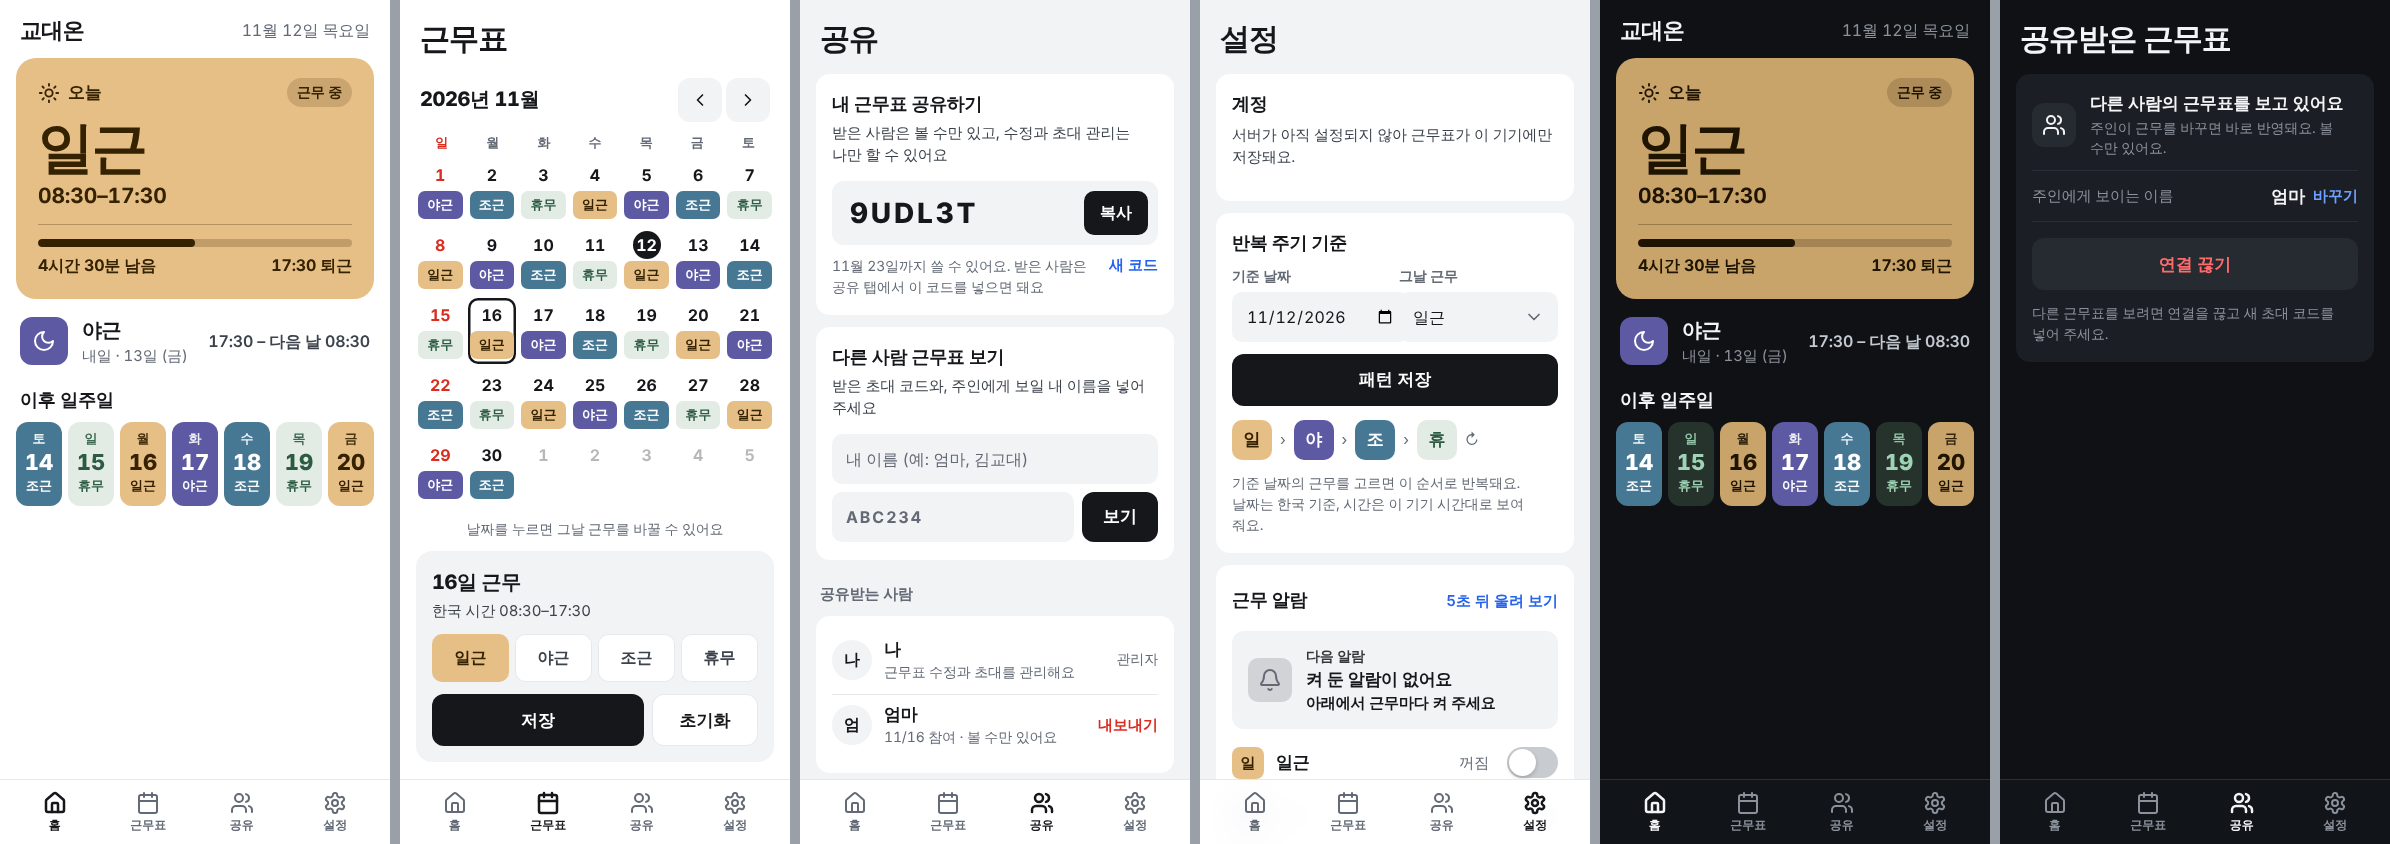
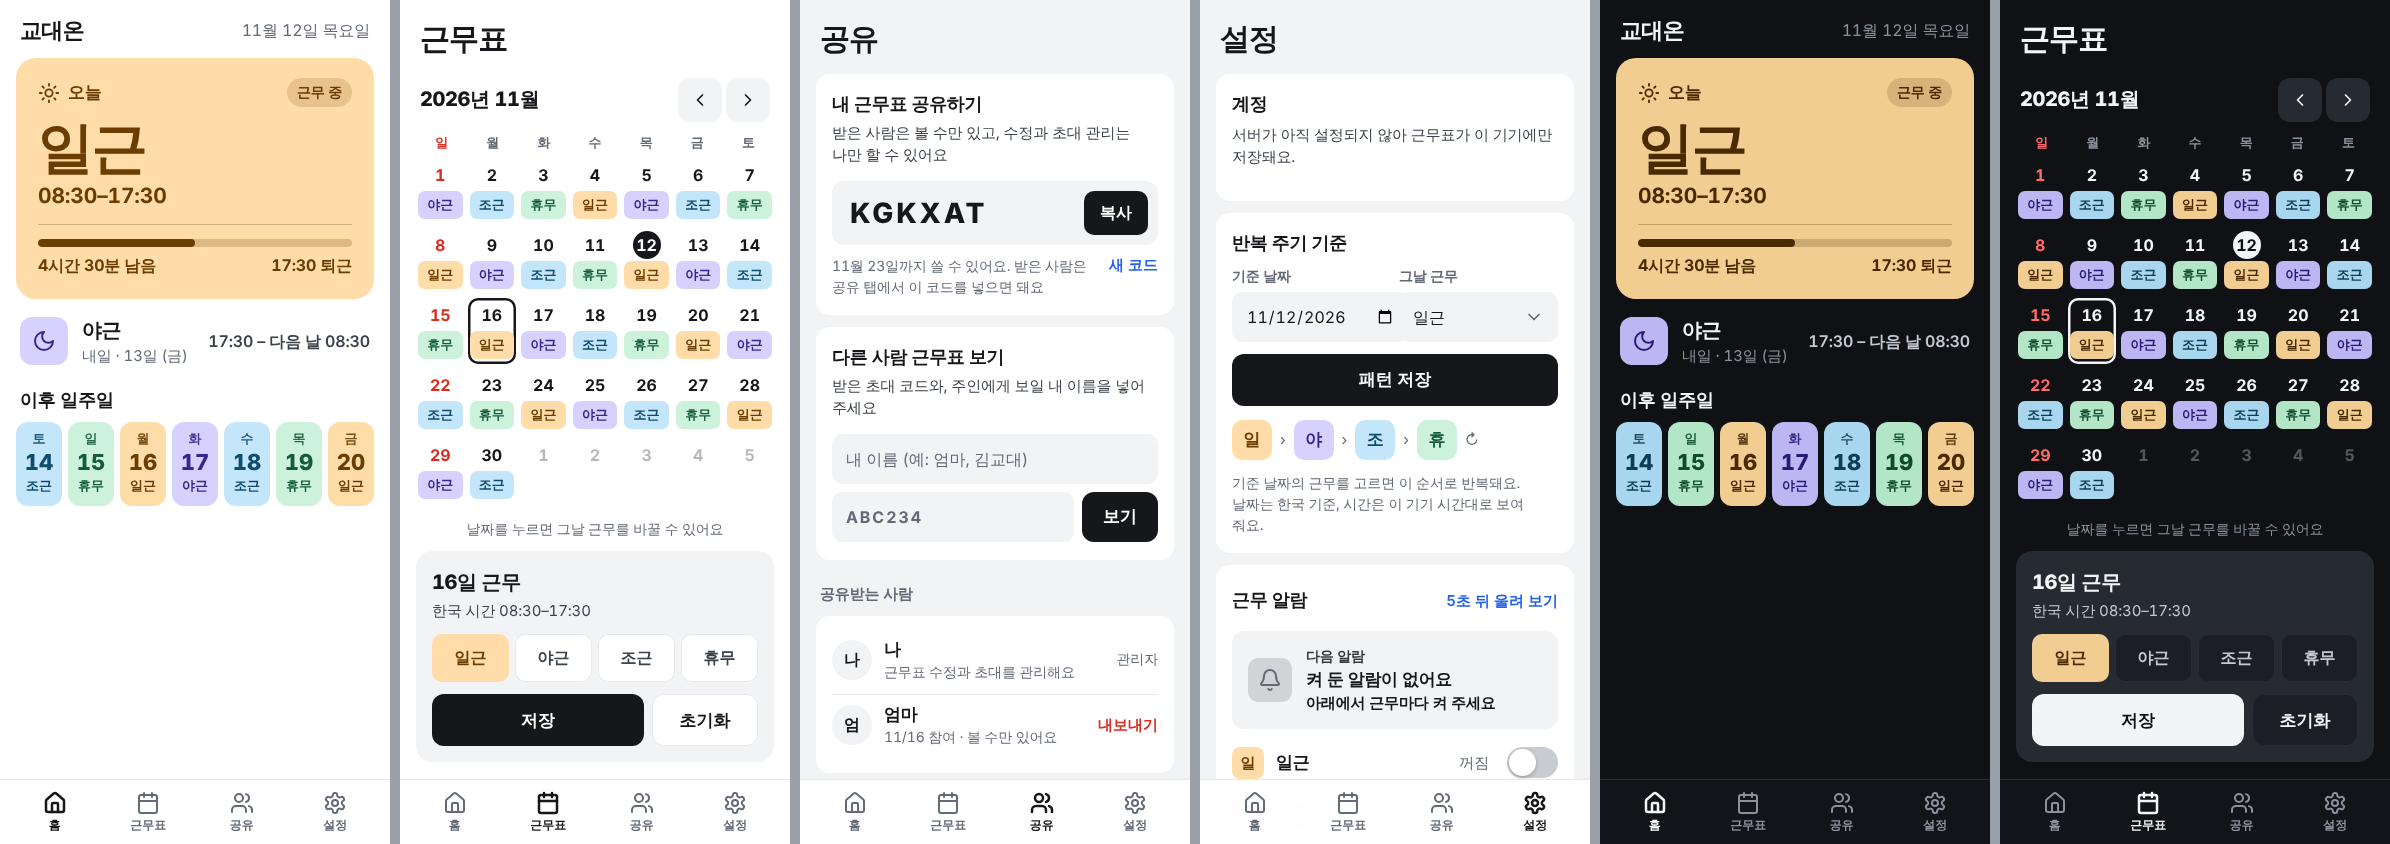
근무 색을 파스텔로: 밝은 파스텔 바탕 + 같은 계열 진한 글자(대비 6.6 이상)
Claude-Session: https://claude.ai/code/session_01Twwme8pGmW2CRkCqeQFUhx

diff --git a/index.html b/index.html
@@ -2,16 +2,16 @@
 <html lang="ko"><head><meta charset="utf-8"><meta name="viewport" content="width=device-width,initial-scale=1,viewport-fit=cover"><meta name="theme-color" content="#ffffff" media="(prefers-color-scheme: light)"><meta name="theme-color" content="#0f1115" media="(prefers-color-scheme: dark)"><title>교대온 · 근무표</title><link rel="manifest" href="manifest.webmanifest"><link rel="icon" href="icons/icon-192.png"><link rel="apple-touch-icon" href="icons/apple-touch-icon.png"><meta name="apple-mobile-web-app-capable" content="yes"><meta name="mobile-web-app-capable" content="yes"><meta name="apple-mobile-web-app-title" content="교대온"><meta name="apple-mobile-web-app-status-bar-style" content="default">
 <script>try{var t=localStorage.getItem("shiftwork-theme");if(t==="light"||t==="dark")document.documentElement.dataset.theme=t}catch(e){}</script>
 <style>
-/* 교대온 2.0 디자인: 벽에 붙여 색을 칠한 근무표(채도를 낮춘 차분한 색).
+/* 교대온 2.0 디자인: 벽에 붙여 색을 칠한 근무표(파스텔 바탕 + 같은 계열 진한 글자).
    - 근무가 보이는 곳(홈의 오늘·일주일, 근무표 달력)만 근무 색으로 칸을 칠한다. 칸마다 바탕/글자 짝은 대비 4.5 이상.
    - 공유·설정은 아이폰 설정처럼 회색 바탕에 흰 목록. 색은 쓰지 않는다.
    - 주 버튼은 잉크색(어둡게 모드는 흰색). 파란색은 글자 버튼(링크)에만. 아이콘은 lucide(ISC). */
 :root{--page:#fff;--group:#f2f3f5;--card:#fff;--inset:#f2f3f5;--ink:#15171a;--body:#3d434c;--muted:#636a75;--line:#e6e8eb;--link:#2563eb;--on:#34c759;--danger:#d92d20;--nav:rgba(255,255,255,.94);
-  --b1:#e6bf86;--f1:#352200;--b2:#5d5aa3;--f2:#fff;--b3:#477893;--f3:#fff;--b4:#e2ece5;--f4:#2c5b42;
-  --s1:#8a5a14;--s2:#55529a;--s3:#3f6f8a;--s4:#3b6e52;
+  --b1:#ffdca8;--f1:#6b3d00;--b2:#d6d1ff;--f2:#33288f;--b3:#c4e6fa;--f3:#0f4c6e;--b4:#cdf2db;--f4:#145c37;
+  --s1:#9a5a00;--s2:#4b40c0;--s3:#1a6b96;--s4:#1e7a48;
   --font:-apple-system,BlinkMacSystemFont,'Apple SD Gothic Neo','Noto Sans KR','Noto Sans CJK KR',sans-serif;color-scheme:light}
-@media(prefers-color-scheme:dark){:root:not([data-theme="light"]){--page:#0f1115;--group:#0f1115;--card:#1b1e24;--inset:#262a31;--ink:#f2f4f6;--body:#c3c9d1;--muted:#8b929c;--line:#2a2e36;--link:#6ea2ff;--on:#30d158;--danger:#ff6b6b;--nav:rgba(18,20,25,.94);--b1:#c9a46a;--f1:#1f1400;--b2:#5d5aa3;--f2:#fff;--b3:#477893;--f3:#fff;--b4:#26332c;--f4:#9fd3b5;--s1:#d9b77f;--s2:#a7a4dc;--s3:#8ab4cc;--s4:#8fc4a6;color-scheme:dark}}
-:root[data-theme="dark"]{--page:#0f1115;--group:#0f1115;--card:#1b1e24;--inset:#262a31;--ink:#f2f4f6;--body:#c3c9d1;--muted:#8b929c;--line:#2a2e36;--link:#6ea2ff;--on:#30d158;--danger:#ff6b6b;--nav:rgba(18,20,25,.94);--b1:#c9a46a;--f1:#1f1400;--b2:#5d5aa3;--f2:#fff;--b3:#477893;--f3:#fff;--b4:#26332c;--f4:#9fd3b5;--s1:#d9b77f;--s2:#a7a4dc;--s3:#8ab4cc;--s4:#8fc4a6;color-scheme:dark}
+@media(prefers-color-scheme:dark){:root:not([data-theme="light"]){--page:#0f1115;--group:#0f1115;--card:#1b1e24;--inset:#262a31;--ink:#f2f4f6;--body:#c3c9d1;--muted:#8b929c;--line:#2a2e36;--link:#6ea2ff;--on:#30d158;--danger:#ff6b6b;--nav:rgba(18,20,25,.94);--b1:#f2cd92;--f1:#4a2a00;--b2:#bdb6f2;--f2:#261c78;--b3:#a9d6ef;--f3:#0b3c58;--b4:#b2e6c7;--f4:#0f4a2c;--s1:#f2cd92;--s2:#bdb6f2;--s3:#a9d6ef;--s4:#b2e6c7;color-scheme:dark}}
+:root[data-theme="dark"]{--page:#0f1115;--group:#0f1115;--card:#1b1e24;--inset:#262a31;--ink:#f2f4f6;--body:#c3c9d1;--muted:#8b929c;--line:#2a2e36;--link:#6ea2ff;--on:#30d158;--danger:#ff6b6b;--nav:rgba(18,20,25,.94);--b1:#f2cd92;--f1:#4a2a00;--b2:#bdb6f2;--f2:#261c78;--b3:#a9d6ef;--f3:#0b3c58;--b4:#b2e6c7;--f4:#0f4a2c;--s1:#f2cd92;--s2:#bdb6f2;--s3:#a9d6ef;--s4:#b2e6c7;color-scheme:dark}
 *{box-sizing:border-box}
 html{-webkit-text-size-adjust:100%}
 body{margin:0;background:var(--page);color:var(--ink);font-family:var(--font);letter-spacing:-.01em;word-break:keep-all;-webkit-font-smoothing:antialiased;font-variant-numeric:tabular-nums}
